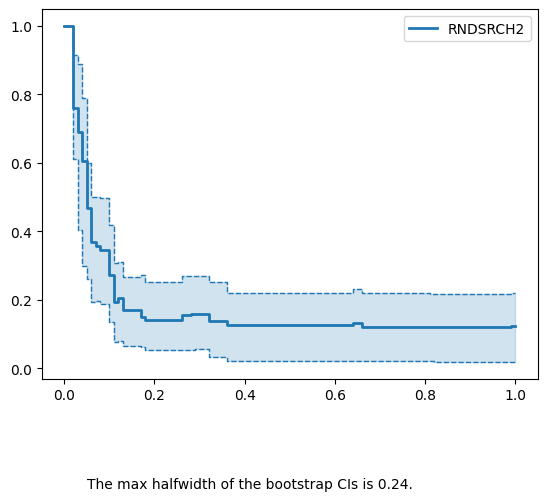
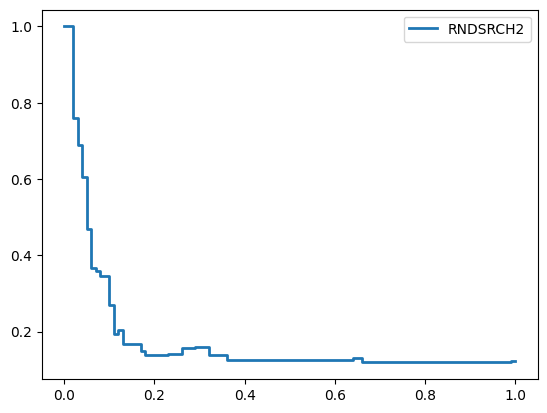
started implementing parameter options

diff --git a/simopt/GUI.py b/simopt/GUI.py
@@ -1949,12 +1949,16 @@ class Post_Normal_Window():
                                 background="#fff")
 
         self.n_init_label = ttk.Label(master = self.master,
-                                text = "The Selected Initial Solution, x, is " + str(self.post_norm_exp_list[0].x0),
+                                # text = "The Selected Initial Solution, x, is " + str(self.post_norm_exp_list[0].x0),
+                                text = "The Selected Initial Solution, x, is " ,
                                 font = "Calibri 11 bold",
                                 wraplength = "400")
 
         self.n_opt_label = ttk.Label(master = self.master,
-                                text = "The Optimal Solution, x*, is " + str(self.post_norm_exp_list[0].xstar) + " for this " + minmax + ". \nIf the proxy optimal value and proxy optimal solution are unspecified simopt will chose the best solution ",
+                                #print this one
+                                #exp.problem.optimal_solution
+                                text = "The Optimal Solution, x*, is " + " for this " + minmax + ". \nIf the proxy optimal value and proxy optimal solution are unspecified simopt will chose the best solution ",
+                                # text = "The Optimal Solution, x*, is " + str(self.post_norm_exp_list[0].xstar) + " for this " + minmax + ". \nIf the proxy optimal value and proxy optimal solution are unspecified simopt will chose the best solution ",
                                 font = "Calibri 11 bold",
                                 wraplength = "600")
 
@@ -1997,8 +2001,10 @@ class Post_Normal_Window():
         self.n_postreps_init_opt_entry = ttk.Entry(master=self.master, textvariable = self.n_postreps_init_opt_var, justify = tk.LEFT)
         self.n_postreps_init_opt_entry.insert(index=tk.END, string="200")
         # self.n_initial_entry.insert(index=tk.END, string=str(self.post_norm_exp_list[0].x0) )
-        if self.post_norm_exp_list[0].xstar:
-            self.n_proxy_sol_entry.insert(index=tk.END, string=str(self.post_norm_exp_list[0].xstar))
+        
+        # if self.post_norm_exp_list[0].xstar:
+        #     self.n_proxy_sol_entry.insert(index=tk.END, string=str(self.post_norm_exp_list[0].xstar))
+        
         # if self.post_norm_exp_list[0].xstar:
         #     self.n_proxy_sol_entry.insert(index=tk.END, string=str(self.post_norm_exp_list[0].xstar[0]))
 
@@ -2104,6 +2110,7 @@ class Plot_Window():
             self.num_plots = 0
             self.plot_exp_list = []
             self.plot_type_list = []
+            self.checkbox_list = []
 
             self.problem_menu = Listbox(self.master,selectmode = "multiple",exportselection=False,width=10,height=6)
             self.solver_menu = Listbox(self.master,selectmode = "multiple",exportselection=False,width=10,height=6)
@@ -2143,7 +2150,14 @@ class Plot_Window():
             self.plot_var = tk.StringVar(master=self.master)
 
             # self.problem_menu = tk.Listbox(self.master, self.problem_var, "Problem", *self.all_problems, command=self.experiment_list[0].problem.name)
-            self.plot_menu = ttk.OptionMenu(self.master, self.plot_var, "Plot", *self.plot_type_names)
+            self.plot_menu = ttk.OptionMenu(self.master, self.plot_var, "Plot", *self.plot_type_names, command=partial(self.get_parameters, self.plot_var))
+
+            self.CI_label = tk.Label(master=self.master, # window label is used in
+                            text = "Plot with Confidence Intervals",
+                            font = "Calibri 11 bold")
+            self.CI_checkbox = tk.Checkbutton(self.master,text="",command=partial(self.checkbox_function, self.num_plots + 1))
+            self.CI_checkbox.select()
+            self.checkbox_list_current_val = (True)
             
             self.solver_label = tk.Label(master=self.master, # window label is used in
                             text = "Please select the Solver:*",
@@ -2200,7 +2214,7 @@ class Plot_Window():
 
             self.tab_one.grid_rowconfigure(0)
 
-            self.heading_list = ["Problem", "Solver", "Plot Type", "Parameters", "Confidence Intervals"]
+            self.heading_list = ["Problem", "Solver", "Plot Type", "Parameters", "Confidence Intervals", "Clear Row"]
 
             for heading in self.heading_list:
                 self.tab_one.grid_columnconfigure(self.heading_list.index(heading))
@@ -2219,12 +2233,15 @@ class Plot_Window():
             self.plot_label.place(x=0, y=250)
             self.plot_menu.place(x=200, y=250)
 
-            self.add_button.place(x=5, y=310)
+            self.CI_label.place(x=0,y=280)
+            self.CI_checkbox.place(x=200,y=280)
+
+            self.add_button.place(x=5, y=340)
 
             self.post_normal_all_button.place(x=270,y=700)
 
             self.queue_label_frame.place(x=0, y=400, height=250, width=700)
-            self.checkbox_list = []
+            
             # self.frame.pack(fill='both')
         
         def test_funct(self):
@@ -2277,27 +2294,78 @@ class Plot_Window():
                                                     justify="center")
             self.plot_type_button_added.grid(row=place, column=2, sticky='nsew', padx=5, pady=3)
             
-            self.select_checkbox = tk.Checkbutton(self.tab_one,text="",command=partial(self.checkbox_function, place))
-            self.select_checkbox.grid(row=place, column=4, sticky='nsew', padx=5, pady=3)
-            self.select_checkbox.select()
-            self.checkbox_list.append(True)
+            checkbox_val = "False"
+            if self.checkbox_list_current_val:
+                checkbox_val = "True"
+            self.select_checkbox_label = tk.Label(self.tab_one,text=checkbox_val)
+            self.select_checkbox_label.grid(row=place, column=4, sticky='nsew', padx=5, pady=3)
+           
+
+            self.clear_plot = tk.Button(master=self.tab_one,
+                                                    text="Clear",
+                                                    font = "Calibri 10",
+                                                    justify="center")
+            self.clear_plot.grid(row=place, column=5, sticky='nsew', padx=5, pady=3)
             
 
             self.num_plots += 1
 
         def checkbox_function(self,place):
-            curVal = self.checkbox_list[place - 1]
+            curVal = self.checkbox_list_current_val
             if curVal:
-                self.checkbox_list[place - 1] = False
+                self.checkbox_list_current_val = False
             else:
-                self.checkbox_list[place - 1] = True
+                self.checkbox_list_current_val = True
+
+        def get_parameters(self,a,plot_choice):
+            # beta=0.50, normalize=True
+            print("hi")
+            print(plot_choice,a)
+            if plot_choice == "Mean Progress Curve":
+                param_list = {'beta':0.50, 'normalize':True}
+            elif plot_choice == "Quatile Progress Curve":
+                param_list = {'beta':0.50, 'normalize':True}
+            elif plot_choice == "Solve time cdf":
+                param_list = {'solve_tol':0.1}        
+            elif plot_choice == "Scatter Plot":
+                param_list = {}
+            elif plot_choice == "cdf Solvability":
+                param_list = {'solve_tol':0.1, 'beta':0.5, 'ref_solver':None}        
+            elif plot_choice == "Quantile Solvability":
+                param_list = {'solve_tol':0.1, 'beta':0.5, 'ref_solver':None}                 
+            elif plot_choice == "cdf Difference Plot":
+                param_list = {'solve_tol':0.1, 'beta':0.5, 'ref_solver':None}                    
+            elif plot_choice == "Quanitle Difference Plot":
+                param_list = {'solve_tol':0.1, 'beta':0.5, 'ref_solver':None}        
+            else:
+                print("invalid plot?")
+            
+            self.params = [tk.IntVar(master=self.master), tk.IntVar(master=self.master),tk.IntVar(master=self.master)]
+            i = 0
+
+            starting_place = [400,600,280]
+            for param, param_val in param_list.items():
+                self.param_label = tk.Label(master=self.tab_one, text=param, font = "Calibri 10", justify="center")
+                self.param_entry = ttk.Entry(master=self.master, textvariable = self.params[i], justify = tk.LEFT)
+                self.param_entry.insert(index=tk.END, string=param_val)
+                self.param_label.place(x=starting_place[0],y=starting_place[2])
+                self.param_entry.place(x=starting_place[1],y=starting_place[2])
+                starting_place[3] = starting_place[3] +25
+                i += 1
+
+
 
         def plot_button(self):
             self.postrep_window = tk.Toplevel()
             self.postrep_window.geometry("1000x600")
             self.postrep_window.title("Plotting Page")
-
-            
+            # have one plot and have arrow to scroll through each
+            # one plot solver per row
+            # view individual plot options
+            # hover over for image
+            # CI before adding, table static only
+            # Plot individually vs together 
+            # all plots 
             
             ro = 0
             c = 0
@@ -2319,25 +2387,25 @@ class Plot_Window():
                     path_name = wrapper_base.plot_solvability_cdfs(exp,plot_CIs=ci,print_max_hw=ci)
                 
                 elif self.plot_type_list[i] == "Scatter Plot":
-                    path_name = wrapper_base.plot_area_scatterplots(exp,plot_CIs=ci,print_max_hw=ci)
+                    path_name = wrapper_base.plot_area_scatterplots([exp],plot_CIs=ci,print_max_hw=ci)
                 
                 elif self.plot_type_list[i] == "cdf Solvability":
-                    path_name = wrapper_base.plot_solvability_profiles(exp,"cdf_solvability",plot_CIs=ci,print_max_hw=ci)
+                    path_name = wrapper_base.plot_solvability_profiles([exp],"cdf_solvability",plot_CIs=ci,print_max_hw=ci)
                 
                 elif self.plot_type_list[i] == "Quantile Solvability":
-                    path_name = wrapper_base.plot_solvability_profiles(exp,"quantile_solvability",plot_CIs=ci,print_max_hw=ci)
+                    path_name = wrapper_base.plot_solvability_profiles([exp],"quantile_solvability",plot_CIs=ci,print_max_hw=ci)
                 
                 elif self.plot_type_list[i] == "cdf Difference Plot":
-                    path_name = wrapper_base.plot_solvability_profiles(exp,"diff_cdf_solvability",plot_CIs=ci,print_max_hw=ci)
+                    path_name = wrapper_base.plot_solvability_profiles([exp],"diff_cdf_solvability",plot_CIs=ci,print_max_hw=ci)
                 
                 elif self.plot_type_list[i] == "Quanitle Difference Plot":
-                    path_name = wrapper_base.plot_solvability_profiles(exp,"diff_quantile_solvability",plot_CIs=ci,print_max_hw=ci)
+                    path_name = wrapper_base.plot_solvability_profiles([exp],"diff_quantile_solvability",plot_CIs=ci,print_max_hw=ci)
                 
                 else:
                     print(self.plot_type_list[i])
                 
-                width = 200
-                height = 200
+                width = 400
+                height = 400
                 img = Image.open(path_name)
                 img = img.resize((width,height), Image.ANTIALIAS)
                 img =  ImageTk.PhotoImage(img)
